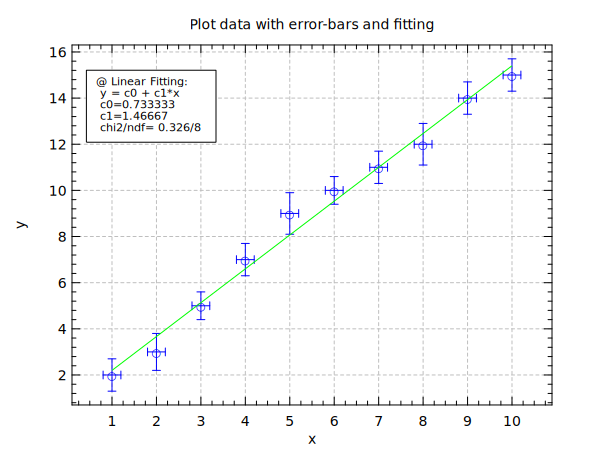
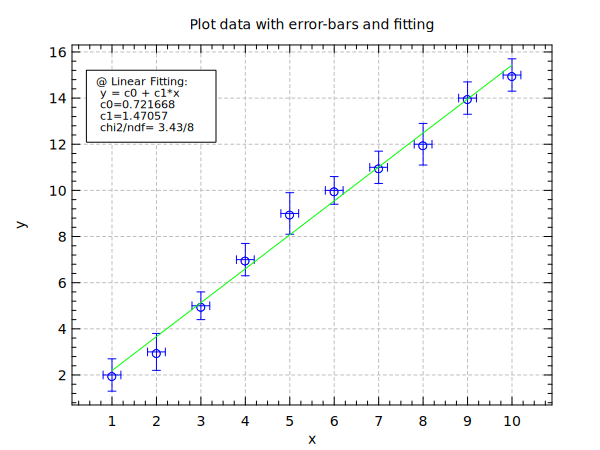
doc,ex: modify ex01 not use xerr/yerr but use option (ex:ex ey:ey)

diff --git a/doc/ex/ex01.md b/doc/ex/ex01.md
@@ -5,12 +5,15 @@ set x = range(10,1,10)
 set y = {2,3,5,7,9,10,11,12,14,15}
 set ex = {0.2,0.2,0.2,0.2,0.2,0.2,0.2,0.2,0.2,0.2}
 set ey = {0.7,0.8,0.6,0.7,0.9,0.6,0.7,0.9,0.7,0.7}
+
 div 1 1
+
 opt (gd:1 xm:0.1 ym:0.1)
-plot x y (lw:0 st:arc sc:blue ss:0.8 xt:1 yt:2)
-xerr x y ex
-yerr x y ey
+
+plot x y (ex:ex ey:ey lw:0 st:arc sc:blue ss:0.8 xt:1 yt:2)
+
 fbox 0.03 0.3 0.73 0.93 (rc:1 ft:solid fc:white)
-fit x y lin (cp:0.05,0.9 rc:1 ts:0.8 lc:green)
+
+fit x y lin (ey:ey cp:0.05,0.9 rc:1 ts:0.8 lc:green)
 ```
 ![](../fig/ex01.png)

diff --git a/doc/ref/fit.md b/doc/ref/fit.md
@@ -43,7 +43,6 @@ the graph at (X,Y).
 - `rc:` flag to set relative coordinate for comment position
 - `cf:` set tag of macro variable to store fitting coefficients
 - `fq:` set frequency of sinusoidal (sin) fitting
-- `ex:` specify error data of x
 - `ey:` specify error data of y
 
 ### option with two arguments

diff --git a/jp/ref/fit.md b/jp/ref/fit.md
@@ -43,7 +43,6 @@ the graph at (X,Y).
 - `rc:` flag to set relative coordinate for comment position
 - `cf:` set tag of macro variable to store fitting coefficients
 - `fq:` set frequency of sinusoidal (sin) fitting
-- `ex:` specify error data of x
 - `ey:` specify error data of y
 
 ### option with two arguments
